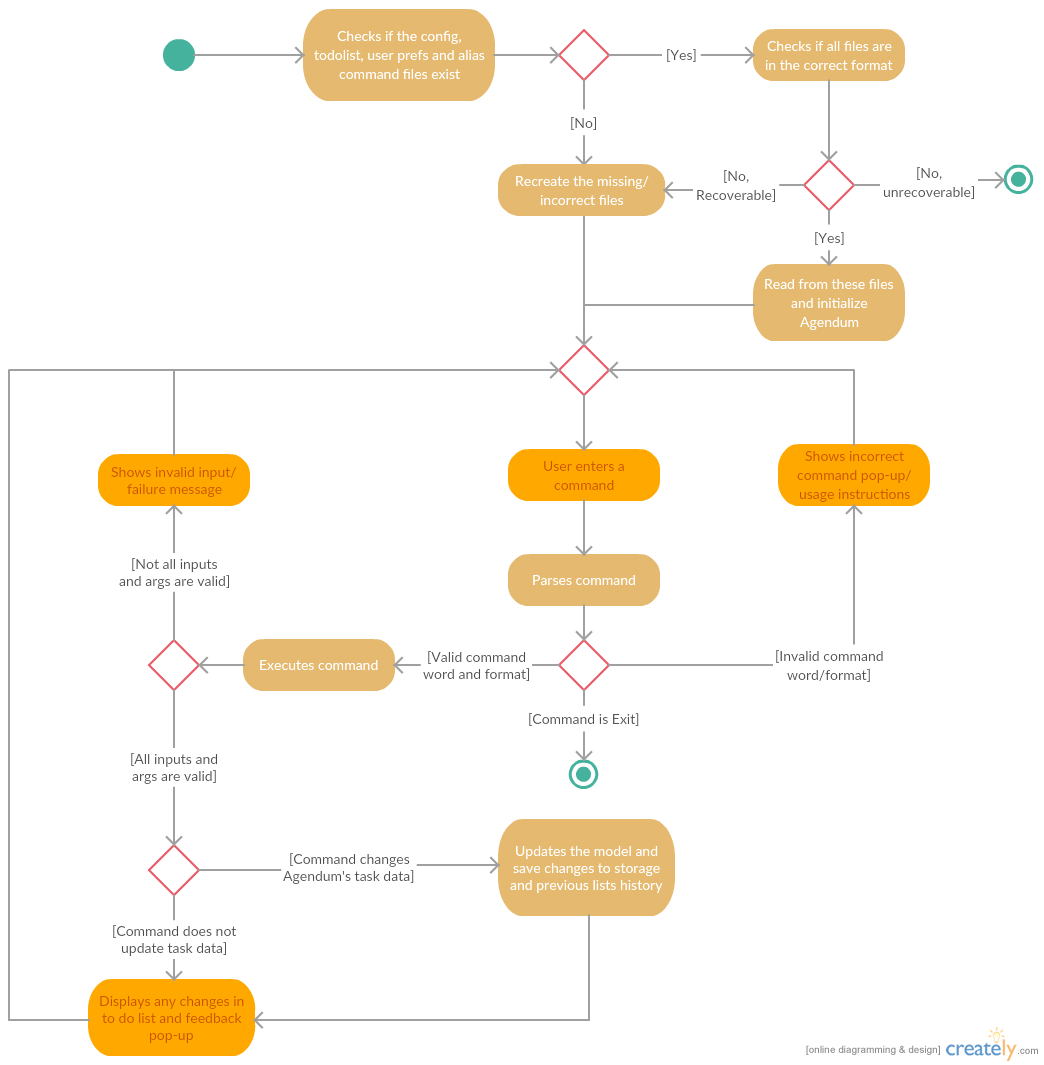
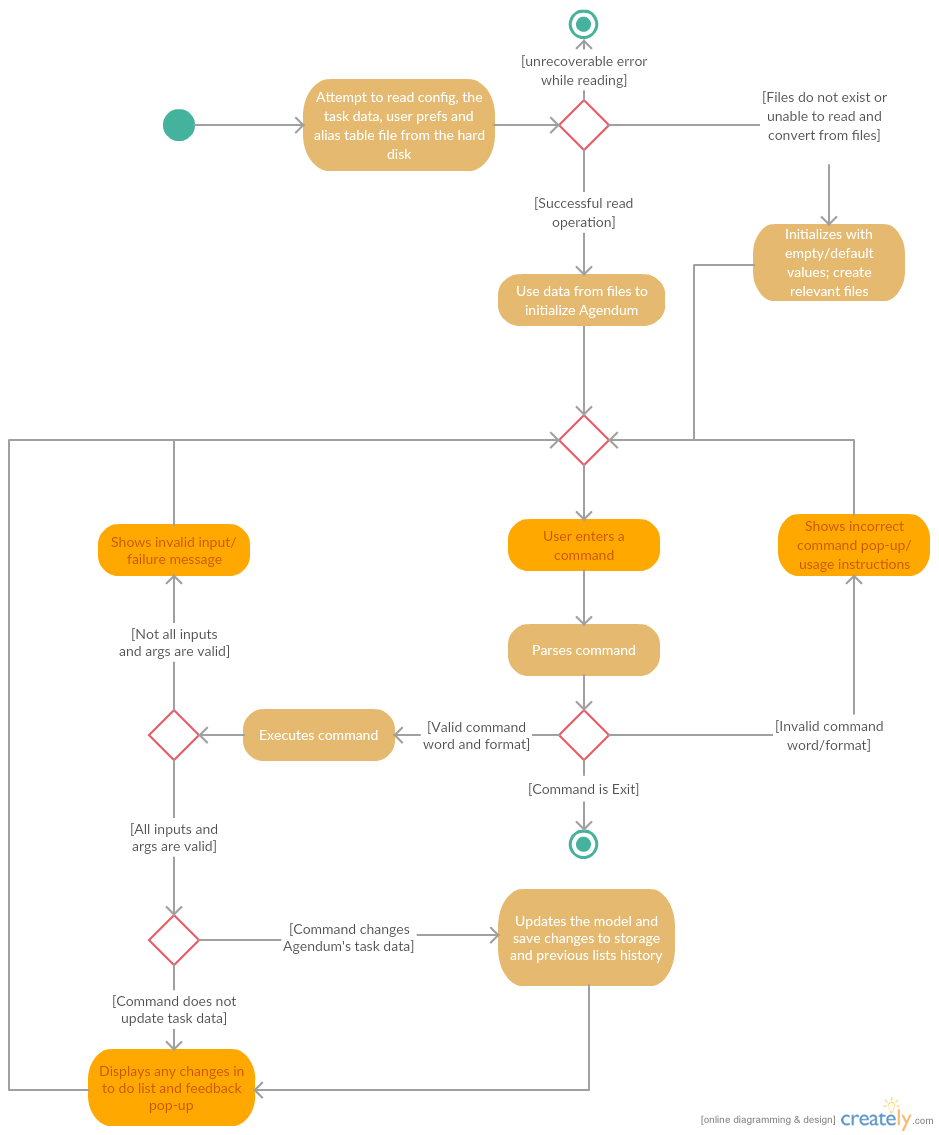
update activity diagram, add br, update description of undo

diff --git a/docs/DeveloperGuide.md b/docs/DeveloperGuide.md
@@ -155,12 +155,11 @@ To further reduce coupling between components, the Model-View-Controller pattern
 
 #### Activity Diagram
 
-<img src="images\activityDiagram.jpg" width="800">
+<img src="images\activityDiagram.jpg" width="800"> <br>
+
 The Activity Diagram above illustrates Agendum's workflow. Brown boxes represent actions taken by Agendum while orange boxes represent actions that involve interaction with the user.  
 
-When Agendum is launched, `MainApp` will attempt to read the configuration files and the to-do list data from the hard disk. If such files do not exist or are in the incorrect format, Agendum will re-create these files. 
-
-Agendum will wait for the user to enter a command. Every command is parsed. If the command is valid and adheres to the given format, Agendum will executes the command. Agendum `Logic` component checks the input such as indices before updating the model and storage if needed.  
+After Agendum is launched, Agendum will wait for the user to enter a command. Every command is parsed. If the command is valid and adheres to the given format, Agendum will executes the command. Agendum `Logic` component checks the input such as indices before updating the model and storage if needed.  
 
 Agendum will then display changes in the to-do list and feedback of each command in the UI. The user can then enter a command again. Agendum will also give pop-up feedbacks when the command format or inputs are invalid.
 
@@ -219,18 +218,18 @@ The structure and relationship of the various classes in the `Model` component i
 
 <img src="images/ModelClassDiagram.png" width="800"><br>
 
-`ModelManager` implements the `Model` Interface. It contains a `UserPref` Object which represents the user’s preference and a `SyncManager` object which is integral for the integration with Google calendar.
+`ModelManager` implements the `Model` Interface. It contains a `UserPref` Object which represents the user’s preference and a `SyncManager` object which is necessary for the integration with Google calendar.
 
-`ModelManager` contains a **main** `ToDoList` object and a stack of `ToDoList` objects referred to as `previousLists`. The **main** `ToDoList` object is the version that is indirectly referred to by the `UI` and `Storage`. The stack, `previousLists` is used to support the [`undo` operation](#### undo).
+`ModelManager` contains a **main** `ToDoList` object and a stack of `ToDoList` objects referred to as `previousLists`. The **main** `ToDoList` object is the copy that is indirectly referred to by the `UI` and `Storage`. The stack, `previousLists` is used to support the [`undo` operation](#### undo).
 
 Each `ToDoList` object has one `UniqueTaskList` object. A `UniqueTaskList` can contain multiple `Task` objects but does not allow duplicates.  
 
 The `ReadOnlyToDoList` and `ReadOnlyTask` interfaces allow other classes and components, such as the `UI`, to access but not modify the list of tasks and their details.  
 
-Currently, each `Task` has a compulsory `Name` and last updated time. It is optional for a `Task` to have a start and end time. Each `Task` also has a completion status which is stored as a Boolean.  
+Currently, each `Task` has a compulsory `Name` and last updated time. It is optional for a `Task` to have a start and end time. Each `Task` also has a completion status which is represented by a boolean.
 
 Design considerations:
-> * `ToDoList` can potentially be extended to have another `UniqueTagList` object to keep track of tags associated with each task and `ToDoList` will be responsible for syncing the tasks and tags.
+> * `ToDoList` is a distinct class from `UniqueTaskList` as it can potentially be extended to have another `UniqueTagList` object to keep track of tags associated with each task and `ToDoList` will be responsible for syncing the tasks and tags.
 > * `Name` is a separate class as it might be modified to have its own validation regex e.g. no / or "
 
 Using the same example, if the `Logic` component requests `Model` to _deleteTasks(task)_, the subsequent interactions between objects can be described by the following sequence diagram.  
@@ -243,15 +242,15 @@ The identified task is removed from the `UniqueTaskList`. The `ModelManager` rai
 
 #### undo
 
-`previousLists` is a Stack of `ToDoList` objects with a minimum size of 1. The `ToDoList` object at the top of the stack is identical to the **main** `ToDoList` object before any operation that mutate the task list is performed and after a valid operation that mutates the task list successfully.
+`previousLists` is a Stack of `ToDoList` objects with a minimum size of 1. The `ToDoList` object at the top of the stack is identical to the **main** `ToDoList` object before any operation that mutate the to-do list is performed and after any operation that mutates the task list successfully (without exceptions).
 
-This is achieved by _backupCurrentToDoList_ which pushes a copy of the **main** `ToDoList` to the stack after any valid changes, such as the marking of multiple tasks.
+This is achieved with the _backupCurrentToDoList_ function which pushes a copy of the **main** `ToDoList` to the stack after any successful changes, such as the marking of multiple tasks.
 
 To undo the most recent changes, we simply pop the irrelevant `ToDoList` at the top of the `previousLists` stack and copy the `ToDoList` at the top of the stack back to the **main** list 
 
 This approach eliminates the need to implement an "undo" method and store the changes separately for each command that will mutate the task list.
 
-Also, it helps to resolve the complications involved with manipulating multiple task objects at a go. For example, the user might try to mark multiple tasks and one of which will result in a `DuplicateTaskException`. To revert the undesired changes to the **main** `ToDoList`, we can copy the the `ToDoList` at the top of the stack back to the **main** list. In such unsuccessful operations, the changes will not persist to Storage.
+Also, it helps to resolve the complications involved with manipulating multiple task objects at a go. For example, the user might try to mark multiple tasks and one of which will result in a `DuplicateTaskException`. To revert the undesired changes to the **main** `ToDoList`, we can copy the the `ToDoList` at the top of the stack back to the **main** list. In such unsuccessful operations, the changes would not have persisted to Storage.
 
 
 [comment]: # (@@author A0148095X)
